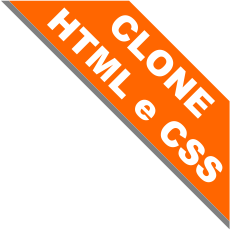
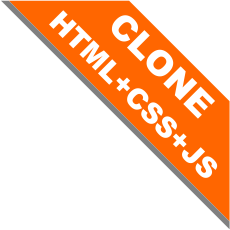
Adicionando updates e nova etiqueta .png

Changed region(s): [[0.1826, 0.0304, 0.9739, 0.7913]]

diff --git a/style.css b/style.css
@@ -132,36 +132,39 @@
     }
     
     ._primInput {
-        background-color: #c7e8fe;
+        background-color: #e8f0fe;
         min-height: 50px;
         width: -webkit-fill-available;
         text-align: left;
         padding-top: 20px;
         padding-left: 10px;
-        border: solid 1px #aae9e9
+        border: solid 1px #cec7c7
     }
     
     ._input {
-        background-color: #c7e8fe;
         min-height: 50px;
         width: -webkit-fill-available;
         text-align: left;
         padding-top: 20px;
         padding-left: 10px;
-        border: solid 1px #aae9e9
+        border: solid 1px #cec7c7;
+        background: #e8f0fe;
     }
     
-    .lnr-eye {
-        position: absolute;
-        top: 5px;
-        right: 10px;
-        cursor: pointer;
+    ._inputSenha {
+        background-color: #e8f0fe;
+        min-height: 50px;
+        text-align: left;
+        padding-top: 20px;
+        padding-left: 7px;
+        border: solid 1px #dfe0e0;
     }
+    
+    #_pass {}
     
     ._classUser {
         align-content: center;
         background: #c2effc;
-        border: 1px solid #dbdbdb;
         border-radius: 3px;
         color: #262626;
         font-size: 14px;
@@ -170,7 +173,7 @@
         margin-block: 10px;
     }
     
-    ._classLogin {
+    ._classSenha {
         align-content: center;
         background: #c2effc;
         border: 1px solid #dbdbdb;
@@ -191,7 +194,7 @@
         min-width: 50px;
     }
     
-    ._labelPass {
+    ._labelSenha {
         text-align: center;
         display: grid;
         height: 100%;
@@ -206,15 +209,16 @@
         font-size: 12px;
         left: 8px;
         line-height: 36px;
-        overflow: hidden;
         pointer-events: none;
         position: absolute;
+        right: 0;
+        height: -webkit-fill-available;
     }
     
     ._botaoMostrar {
-        position: absolute;
         top: 0;
         right: 0;
+        position: absolute;
         height: 100%;
     }
     
@@ -222,10 +226,11 @@
         cursor: pointer;
         font-weight: 600;
         text-align: center;
-        width: 140%;
+        width: 145%;
         position: relative;
         border: 1px solid #dbdbdb;
-        color: #362c2c;
+        color: #262626;
+        height: 100%;
         float: right;
         background-color: aliceblue;
         height: -webkit-fill-available;
@@ -462,7 +467,7 @@
             border: 1px solid transparent;
         }
         ._botao {
-            margin-top: auto;
+            margin-top: 0;
         }
         ._etiquetaClone img {
             width: 8rem;

diff --git a/index.html b/index.html
@@ -1,4 +1,4 @@
-<!--Clone Instagram 2.1-->
+<!--Clone Instagram 2.1 + Função JS-->
 
 <!DOCTYPE html>
 <html lang="pt-BR">
@@ -47,23 +47,19 @@
                                                 type="text" class="_primInput" value="Lucio Frota"></label>
 
                                     </div>
-                                    <div class="_classLogin">
-                                        <label class="_labelPass">
-                                            <span class="_spanUser">DIgite sua
-                                                Senha</span>
-                                            <input aria-label="Senha" aria-required="true" autocapitalize="off"
-                                                autocorrect="off" name="password" type="password" id="pass"
-                                                class="_input" value="Digital-Innovation-One">
-
+                                    <div class="_classSenha"><label class="_labelSenha">
+                                            <span class="_spanUser">Digite sua Senha</span><input aria-label="Senha"
+                                                aria-required="true" autocapitalize="off" autocorrect="off"
+                                                name="password" type="password" class="_inputSenha" id="pass"
+                                                value="Digital-Innovation-One">
                                         </label>
+
+
                                         <div class="_botaoMostrar ">
-                                            <button class="_botao" type="button" onclick="func()">Mostrar</button>
+                                            <!--JS no inline no evento onclick chamando a função "func"-->
+                                            <input class="_botao" id="bot" value="Mostrar" type="button" onclick="func()">
+                                            </input>
                                         </div>
-
-
-
-
-
 
                                     </div>
 
@@ -182,5 +178,6 @@
     <script type="text/javascript" src="script.js"></script>
 
 </body>
+<script type="text/javascript" src="script.js"></script>
 
 </html>

diff --git a/script.js b/script.js
@@ -1,20 +1,13 @@
-//Script mostra senha ao clicar
-
-
 function func() {
-    let input = document.querySelector('#pass');
-    if (input.getAttribute('type') == 'password') {
-        input.setAttribute('type', 'text');
-    } else {
-        input.setAttribute('type', 'password');
-    }
-}
+    let input = document.querySelector('#pass'); //Variavel "input" recebe o input com id=pass
 
-/*
-function checkCookies() {
-    if (navigator.cookieEnabled == true) {
-        alert("Cookies são permitidos")
+
+    if (input.getAttribute('type') == 'password') { //Se o tipo for igual "password"
+        input.setAttribute('type', 'text'); //Troca tipo para texto
+        document.getElementById("bot").value = "Ocultar"; //E muda o value do input com id=bot
     } else {
-        alert("Cookies não são permitidos")
+        input.setAttribute('type', 'password'); //Senão o tipo do input "pass" para password novamente
+        document.getElementById("bot").value = "Mostrar"; //E Troca novamente o value
     }
-}*/
+
+}
